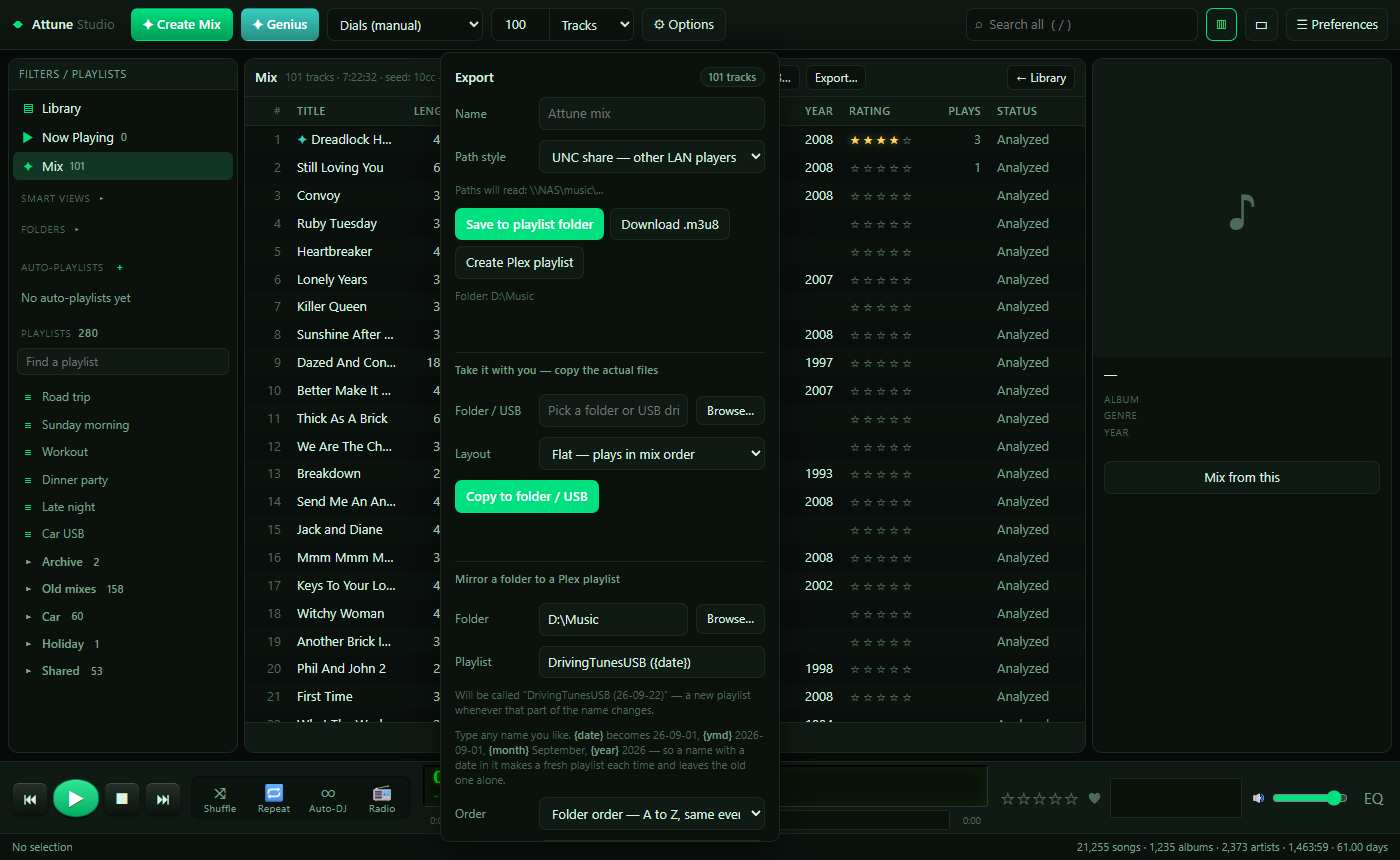
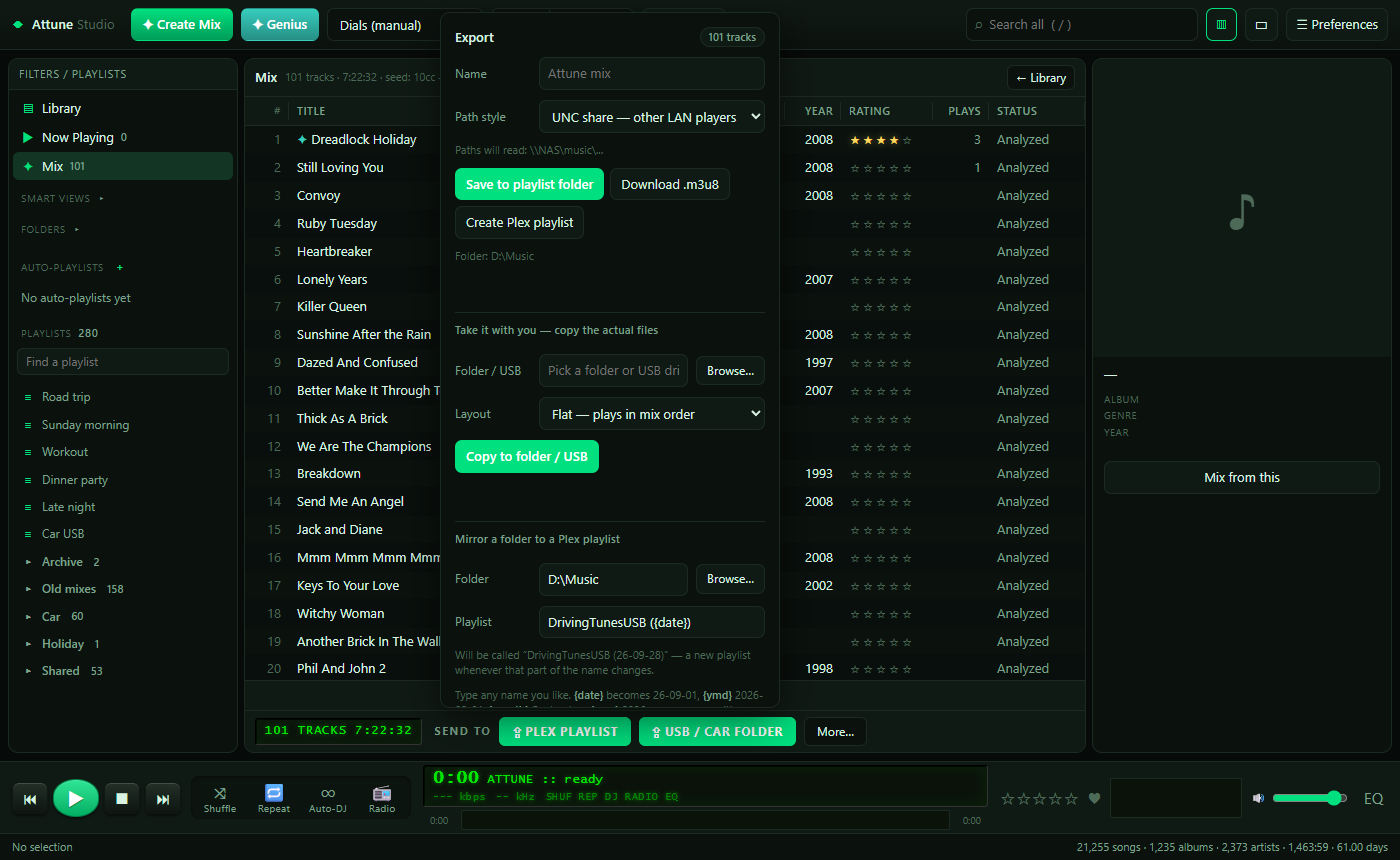
README pictures retaken from the finished window: the SEND TO bar in place of the header-row Export
Assisted-by: Claude Code

diff --git a/README.md b/README.md
@@ -26,7 +26,7 @@
 </p>
 
 <p align="center">
-  <img alt="Attune's main window: a mix numbered in play order, with Play, Save as new, Copy to USB and Export above it, and the playing song's cover on the right" src="docs/img/studio-main.png" width="820">
+  <img alt="Attune's main window: a mix numbered in play order, Play and Save as new above it, the SEND TO bar beneath it with Plex playlist and USB / car folder, and the playing song's cover on the right" src="docs/img/studio-main.png" width="820">
 </p>
 
 ---
@@ -145,7 +145,7 @@ The click-by-click guide, including getting a mix onto a USB stick and into Plex
 </p>
 
 <p align="center">
-  <img alt="The export panel: save a playlist file, download it, or send it to Plex" src="docs/img/export.png" width="820">
+  <img alt="The SEND TO bar at the foot of the list, Plex playlist and USB / car folder one click each, with the More panel open above it: save a playlist file, download it, copy the files, mirror a folder to Plex" src="docs/img/export.png" width="820">
 </p>
 
 <p align="center">
